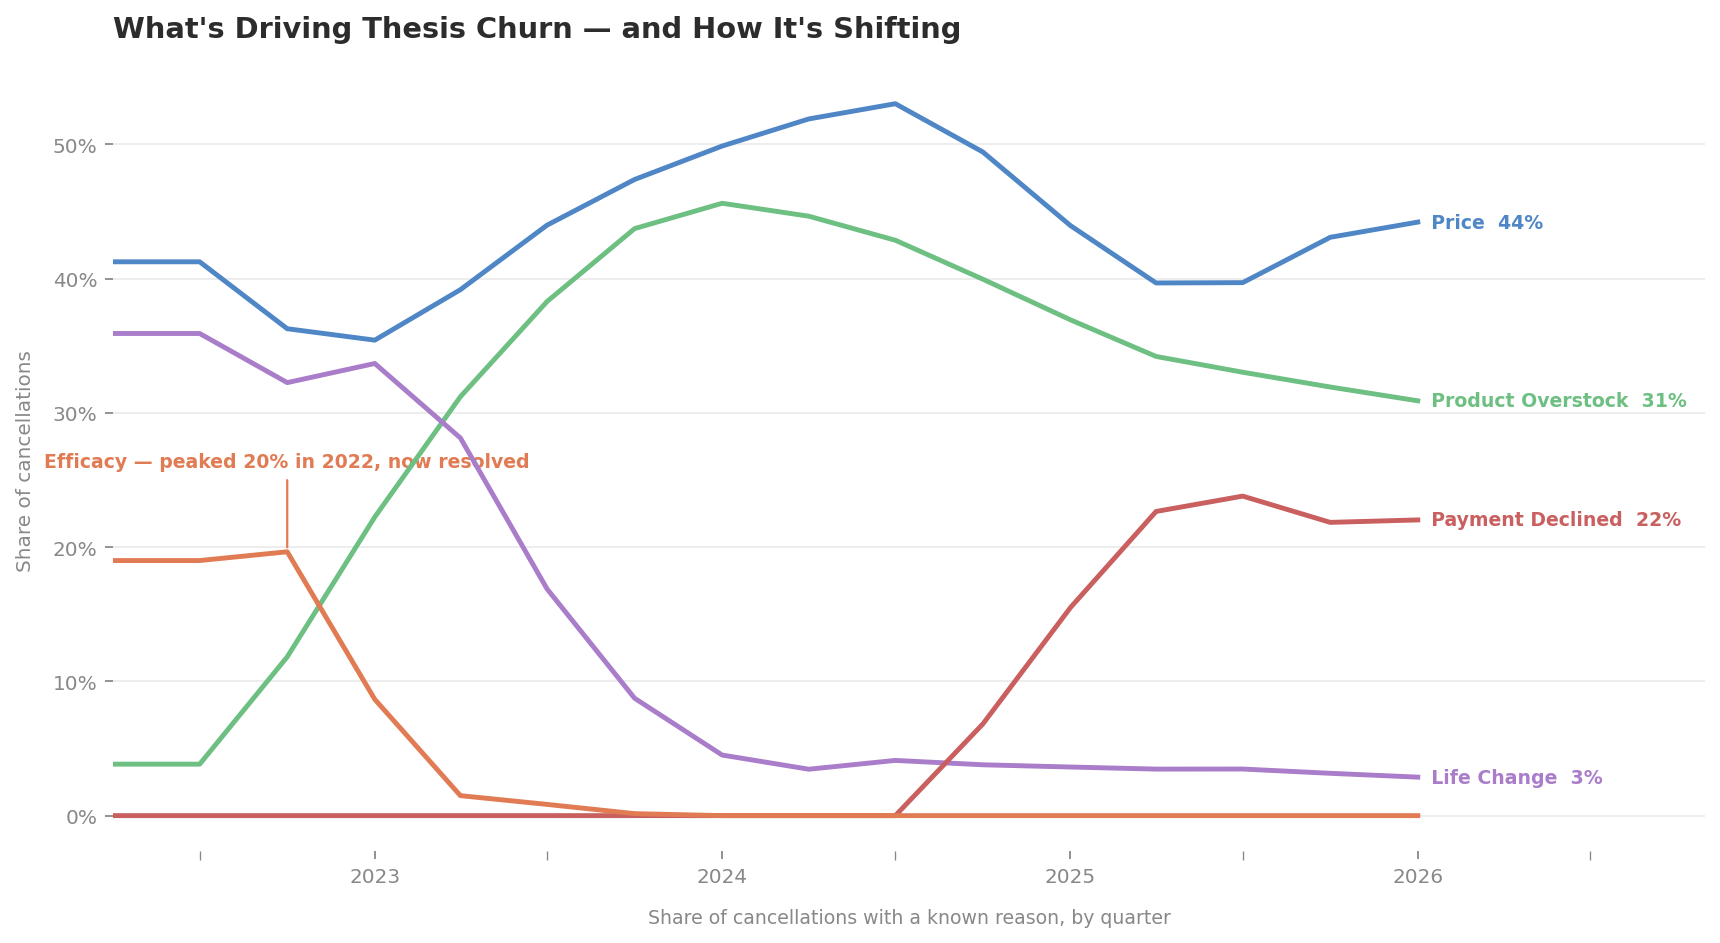
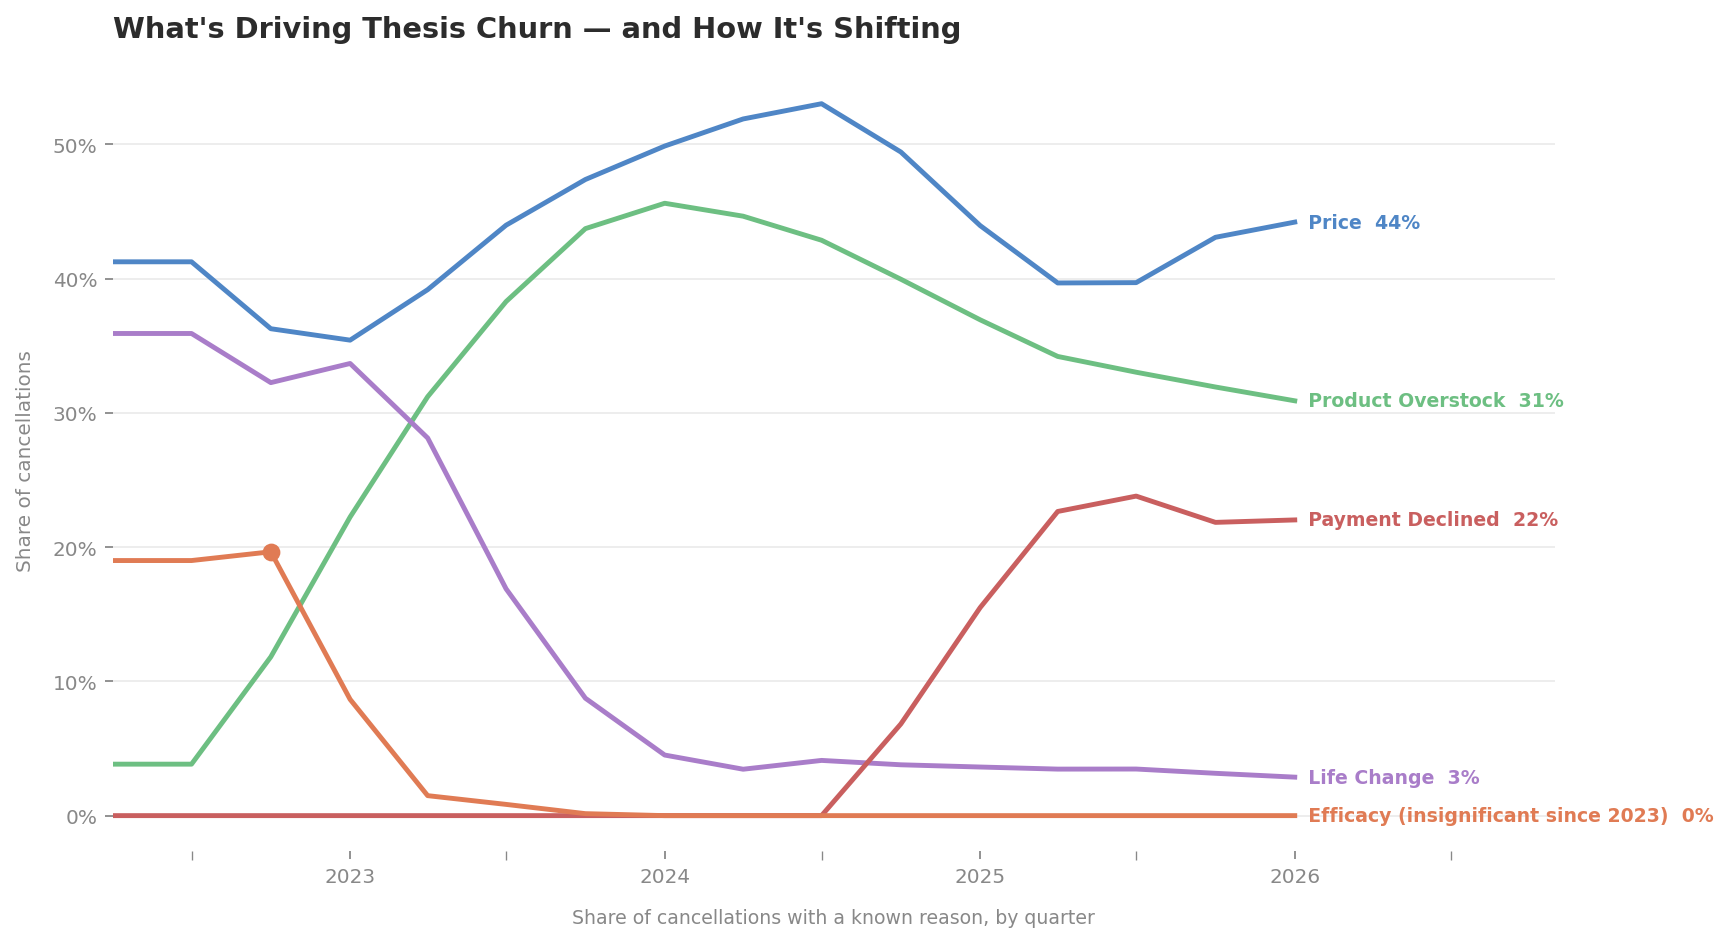
Efficacy: dot at peak, labeled at endpoint as insignificant since 2023

diff --git a/docs/make_charts.py b/docs/make_charts.py
@@ -231,26 +231,19 @@ def chart_3():
 
         ax.plot(dates, smoothed, color=color, linewidth=2.2, zorder=4)
 
-        # Label every line at its endpoint — except Efficacy, which peaked in
-        # 2022 and is now resolved; label it at the peak with context instead.
         final_val = smoothed[-1]
         if arch == "efficacy":
-            peak_i   = int(np.argmax(smoothed))
-            peak_val = smoothed[peak_i]
-            peak_dt  = dates[peak_i]
-            peak_yr  = peak_dt.strftime("%Y")
-            ax.annotate(
-                f"Efficacy — peaked {peak_val:.0f}% in {peak_yr}, now resolved",
-                xy=(peak_dt, peak_val),
-                xytext=(peak_dt, peak_val + 6),
-                ha="center", va="bottom", fontsize=8.5,
-                color=color, fontweight="600",
-                arrowprops=dict(arrowstyle="-", color=color, lw=1.0),
-            )
+            # Mark the 2022 peak with a dot — presenter can speak to it
+            peak_i = int(np.argmax(smoothed))
+            ax.plot(dates[peak_i], smoothed[peak_i],
+                    "o", color=color, markersize=7, zorder=5)
+            end_label = "  Efficacy (insignificant since 2023)  0%"
         else:
-            ax.text(dates[-1], final_val, f"  {ARCH_LABELS[arch]}  {final_val:.0f}%",
-                    ha="left", va="center", fontsize=8.5,
-                    color=color, fontweight="600")
+            end_label = f"  {ARCH_LABELS[arch]}  {final_val:.0f}%"
+
+        ax.text(dates[-1], final_val, end_label,
+                ha="left", va="center", fontsize=8.5,
+                color=color, fontweight="600")
 
     import matplotlib.dates as mdates
 
